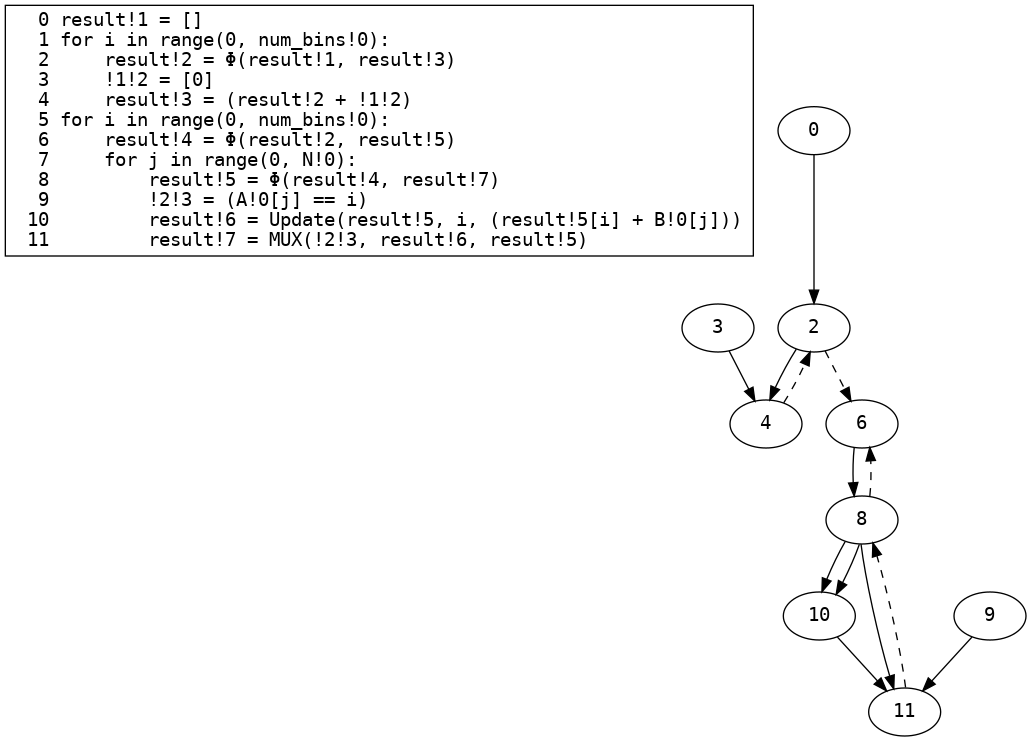
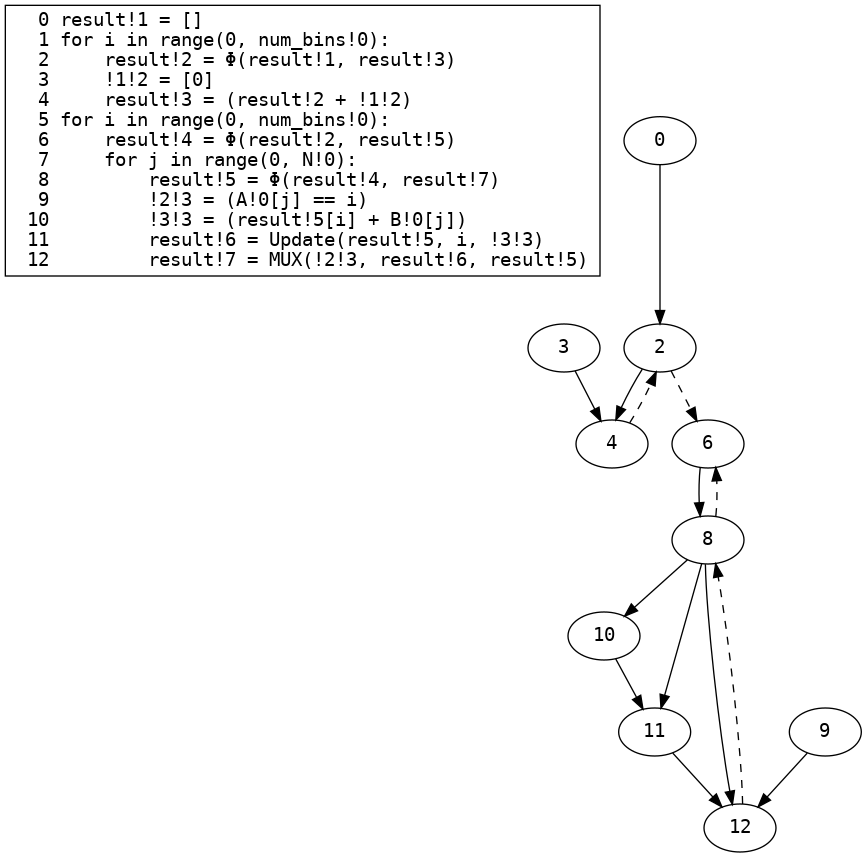
Deploying to gh-pages from  @ fc9dcec85ce1eb8c17389a0880fb7832190eebb1 🚀

Changed region(s): [[0.0, 0.0, 0.9965, 1.0], [0.654, 0.6829, 0.7474, 0.776]]

diff --git a/README.md b/README.md
@@ -333,7 +333,8 @@ def foo(A, B, N, num_bins):
         for j in range(0, N!0):
             result!5 = Φ(result!4, result!7)
             !2!3 = (A!0[j] == i)
-            result!6 = Update(result!5, i, (result!5[i] + B!0[j]))
+            !3!3 = (result!5[i] + B!0[j])
+            result!6 = Update(result!5, i, !3!3)
             result!7 = MUX(!2!3, result!6, result!5)
     return result!4
 ```
@@ -379,12 +380,16 @@ def foo(A, B, C, D, N):
         B!1 = Φ(B!0, B!2)
         C!1 = Φ(C!0, C!2)
         D!1 = Φ(D!0, D!2)
-        A!2 = Update(A!1, i, (B!1[i] + 10))
-        B!2 = Update(B!1, i, (A!2[i] * D!1[(i - 1)]))
-        C!2 = Update(C!1, i, (A!2[i] * D!1[(i - 1)]))
-        D!2 = Update(D!1, i, (B!2[i] * C!2[i]))
-    !1!1 = (A!1, B!1, C!1, D!1)
-    return !1!1
+        !1!2 = (B!1[i] + 10)
+        A!2 = Update(A!1, i, !1!2)
+        !2!2 = (A!2[i] * D!1[(i - 1)])
+        B!2 = Update(B!1, i, !2!2)
+        !3!2 = (A!2[i] * D!1[(i - 1)])
+        C!2 = Update(C!1, i, !3!2)
+        !4!2 = (B!2[i] * C!2[i])
+        D!2 = Update(D!1, i, !4!2)
+    !5!1 = (A!1, B!1, C!1, D!1)
+    return !5!1
 ```
 ### Dependency graph
 ![](infeasible_edges_example_dep_graph.png)
